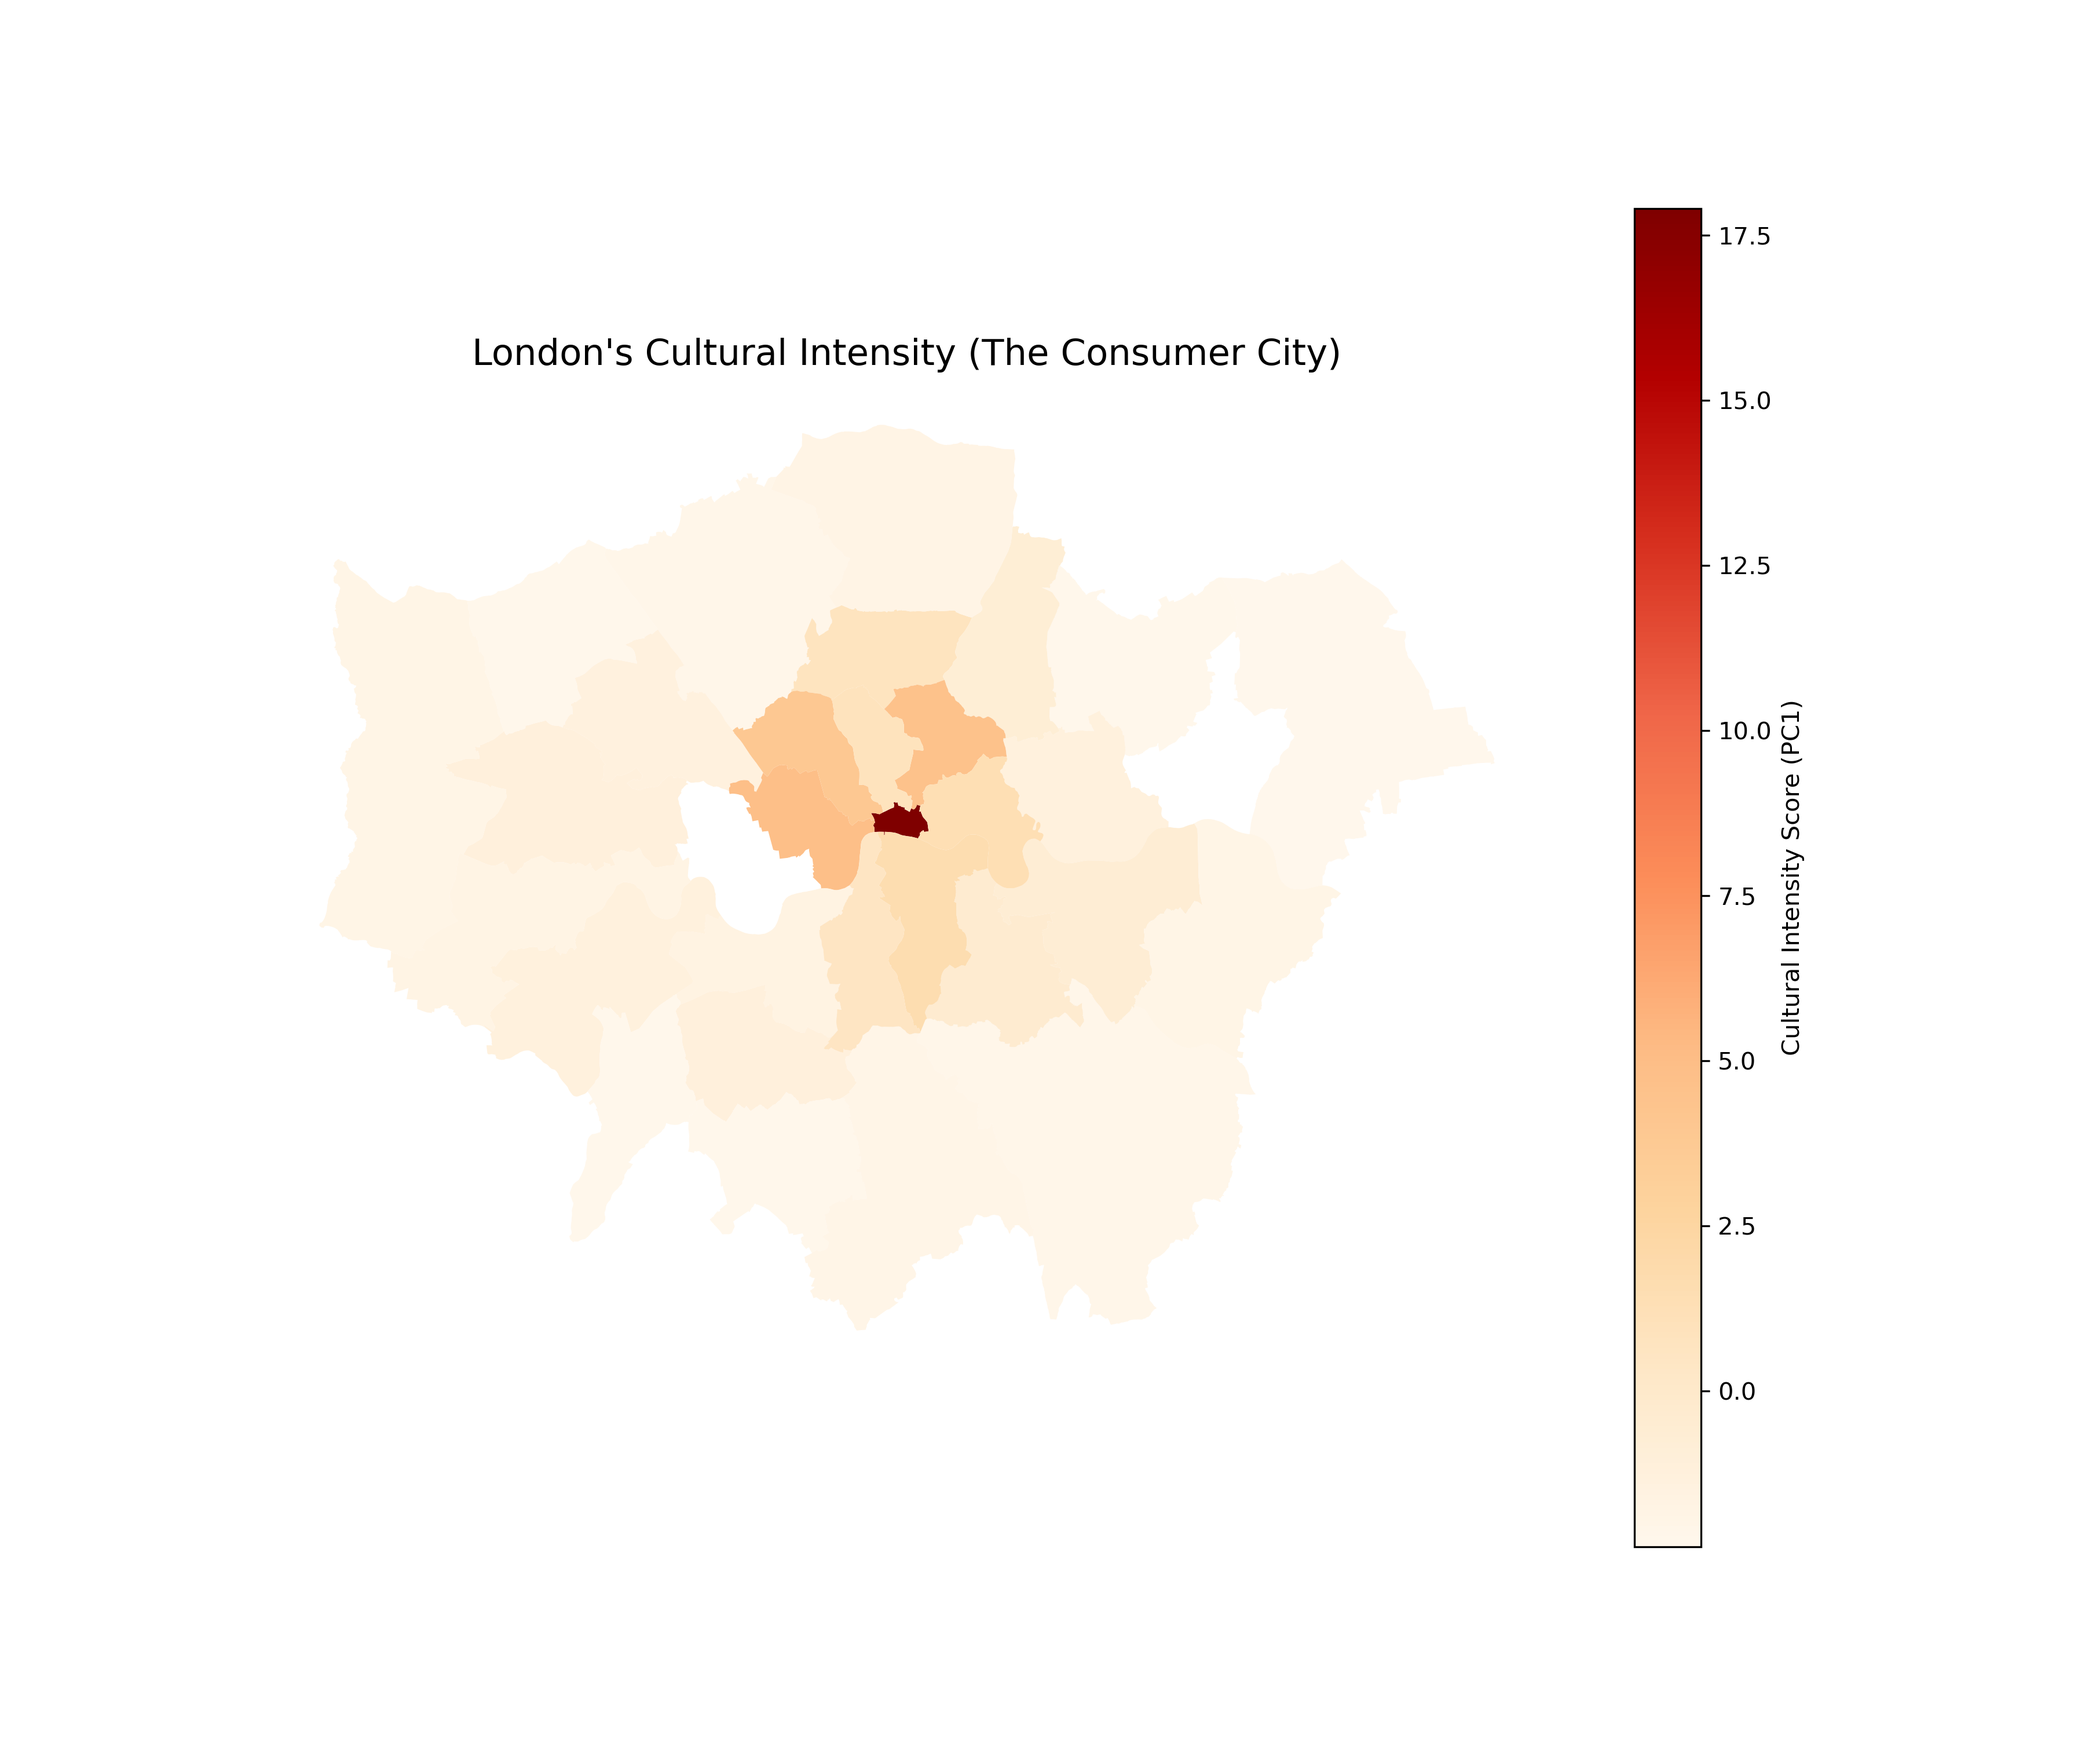
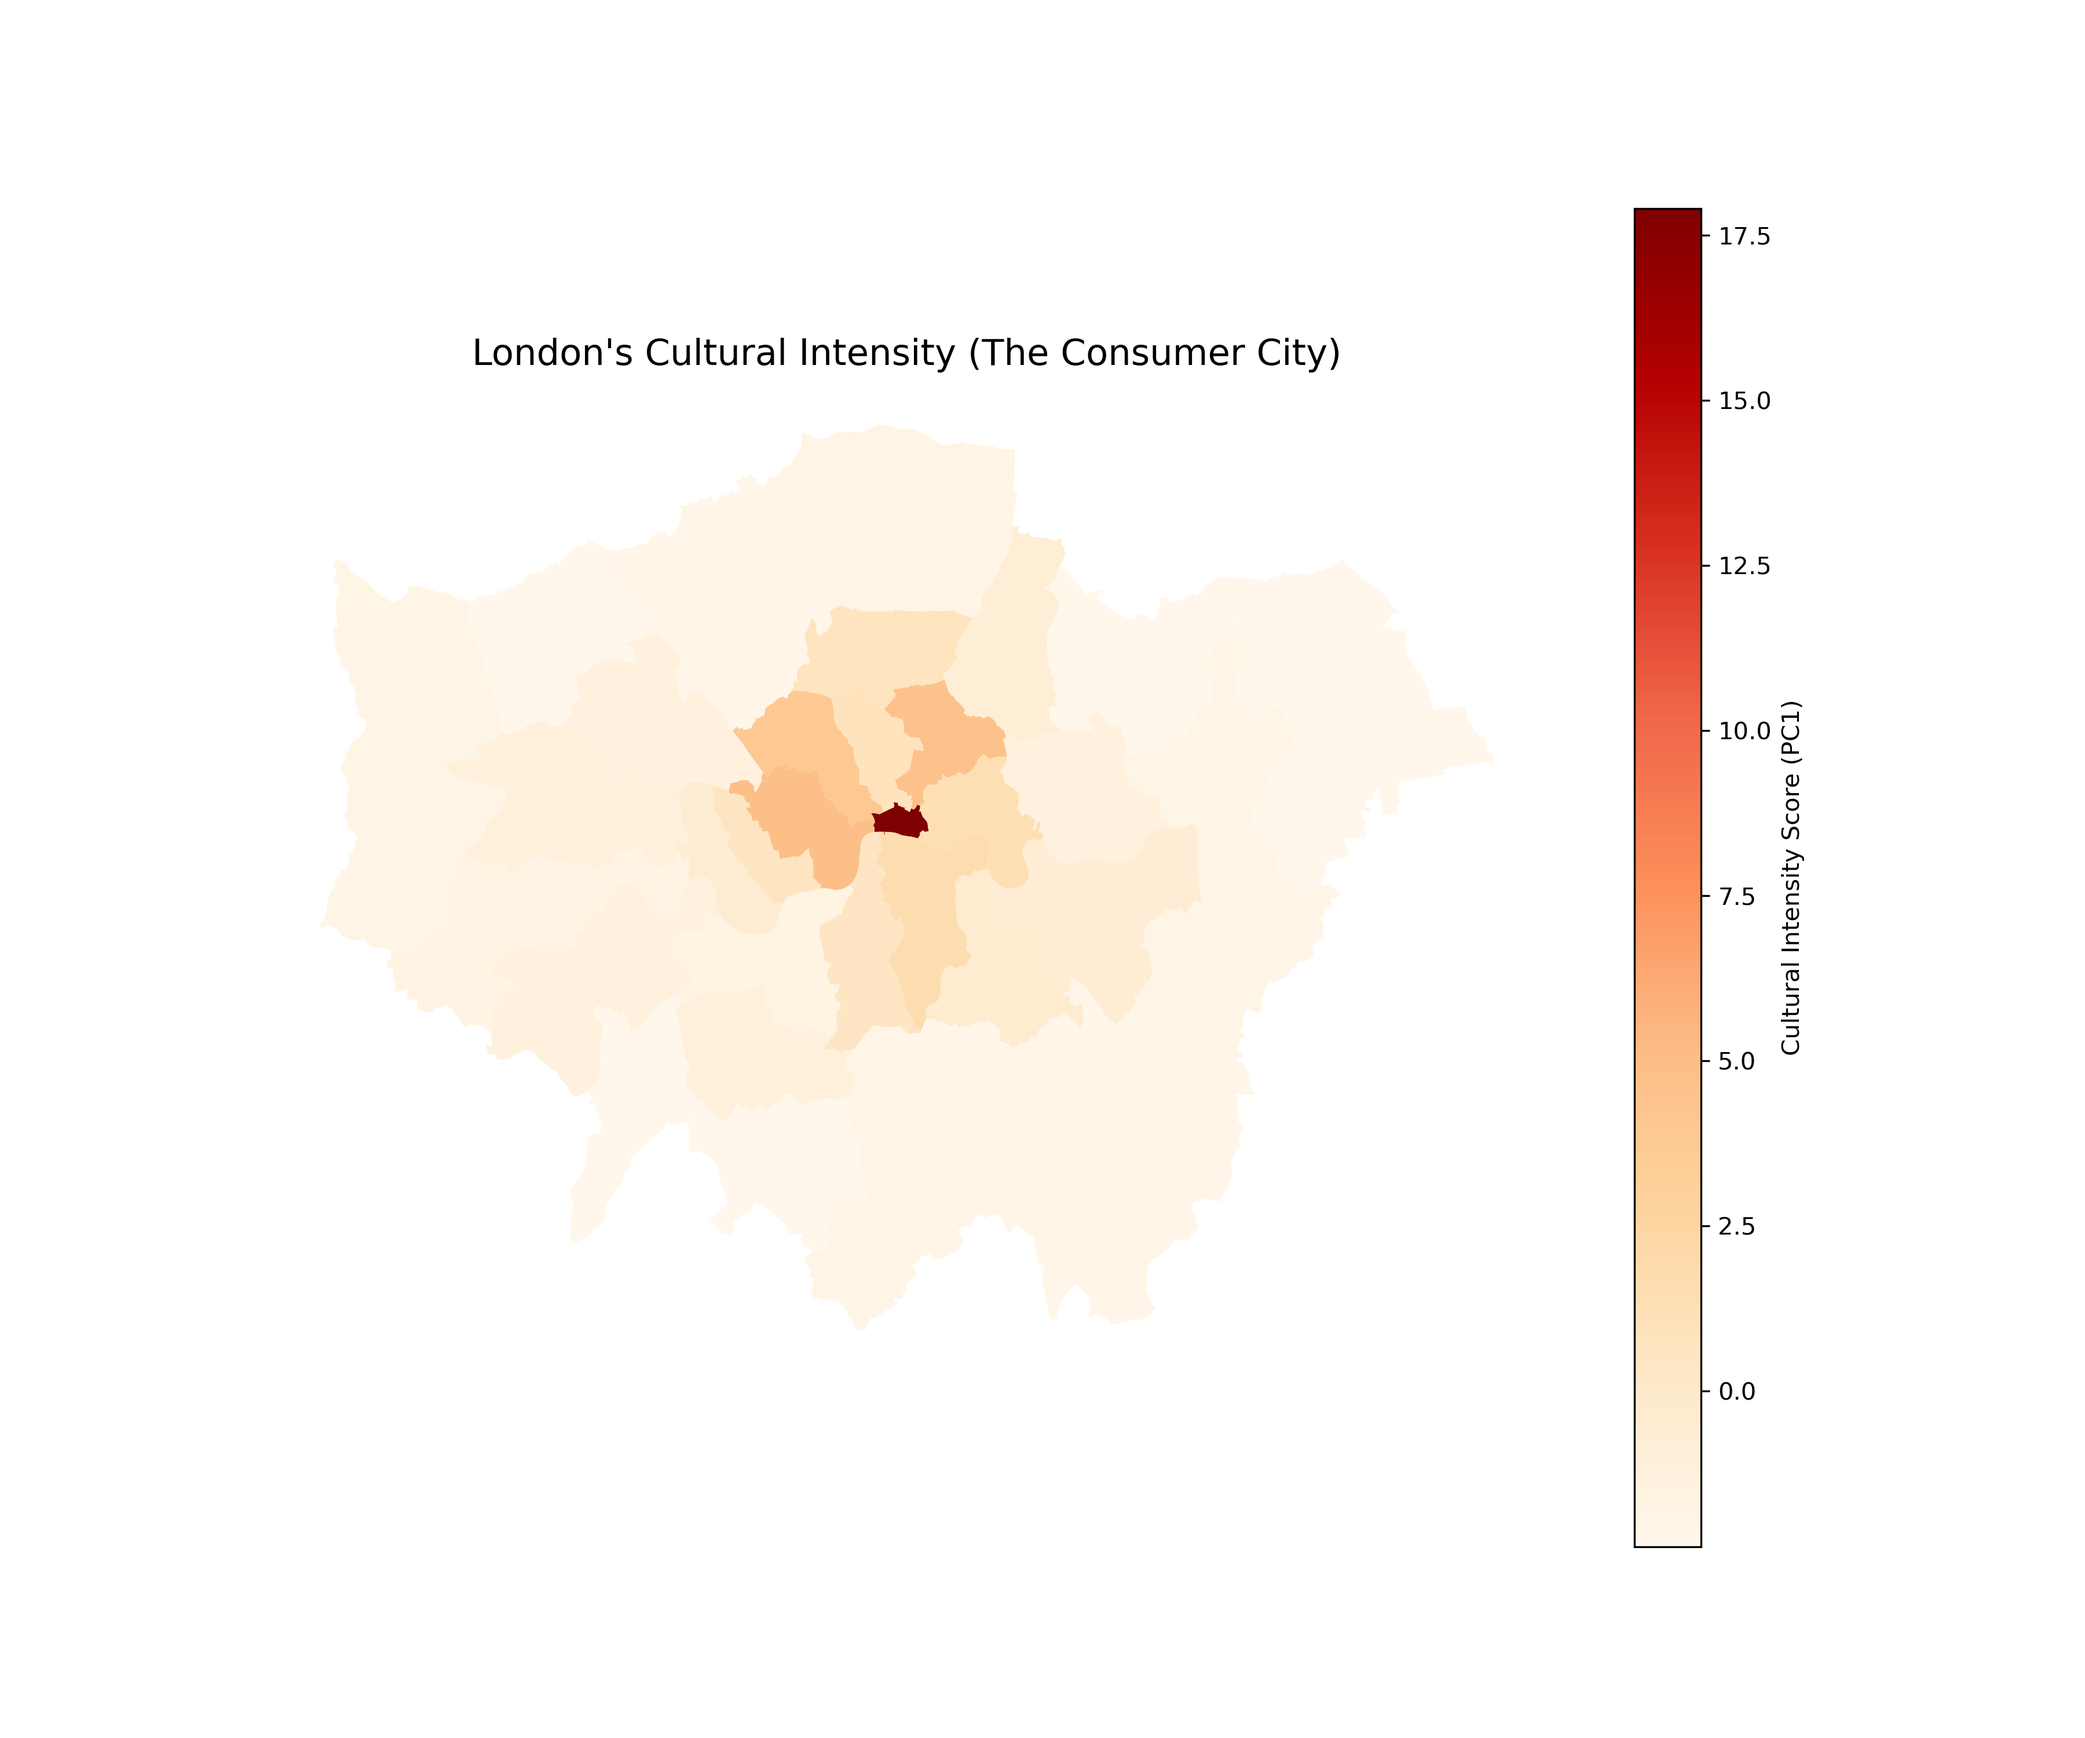
pictures

Changed region(s): [[0.5289, 0.372, 0.6222, 0.496], [0.3111, 0.434, 0.4044, 0.558]]

diff --git a/Assessment/generate_maps.py b/Assessment/generate_maps.py
@@ -9,6 +9,11 @@ gdf = gpd.read_file("London_Boroughs.geojson")
 df_scores = pd.read_csv("London_Borough_PCA_Scores.csv")
 
 # 3. 合并数据 (注意地图文件里的名字通常叫 'name' 或 'BOROUGH')
+gdf['BOROUGH'] = gdf['BOROUGH'].replace({
+    "Barking & Dagenham": "Barking and Dagenham",
+    "Hammersmith & Fulham": "Hammersmith and Fulham",
+    "Kensington & Chelsea": "Kensington and Chelsea"
+})
 gdf = gdf.merge(df_scores, left_on='BOROUGH', right_on='Borough', how='left')
 
 # 4. 画 PC1 (Intensity) 地图
